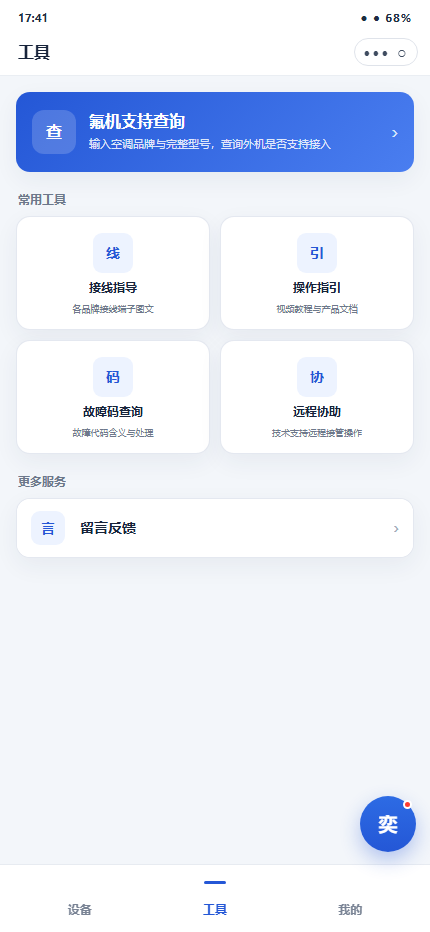
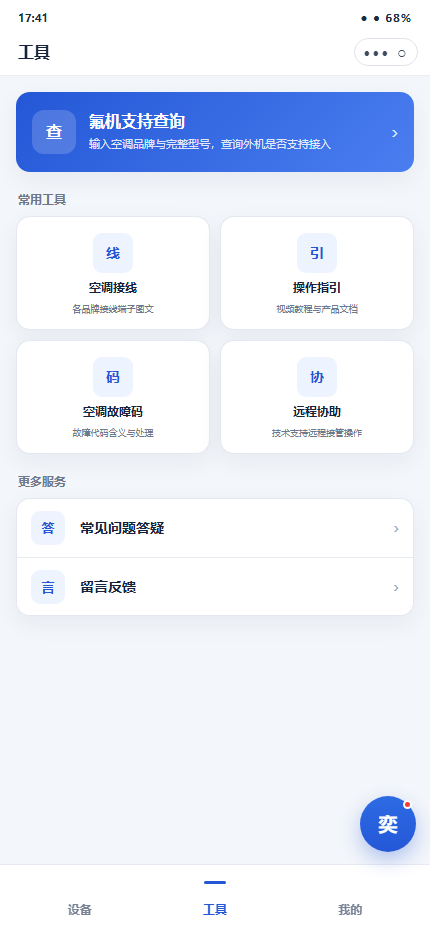
工具中心改版：接线指导更名空调接线；故障码查询更名空调故障码（品牌必选校验、结果卡查询后显示、移除关联网关侧表现与相关文章）；更多服务新增常见问题答疑专栏（折叠问答6条预置+去留言反馈闭环）；功能说明书/测试/截图同步

diff --git a/tests/redesign-requirements.test.js b/tests/redesign-requirements.test.js
@@ -83,16 +83,17 @@ assert.equal(data.toolHero.title, '氟机支持查询', 'fluorine support query 
 assert(data.toolHero.href === 'tool-fluoro-input.html', 'fluorine support query must enter the query flow');
 assert.deepEqual(
   data.toolCards.map((item) => item.title),
-  ['接线指导', '操作指引', '故障码查询', '远程协助'],
+  ['空调接线', '操作指引', '空调故障码', '远程协助'],
   'frequent tools must render as cards'
 );
 assert(data.toolCards.find((item) => item.title === '远程协助').href === 'tool-remote.html', 'remote assist tool must enter the remote assist flow');
 assert(data.toolCards.find((item) => item.title === '操作指引').href === 'tool-guide.html', 'operation guide tool must enter the guide hub');
 assert.deepEqual(
   data.toolMenu.map((item) => item.title),
-  ['留言反馈'],
-  'services menu must keep only feedback'
+  ['常见问题答疑', '留言反馈'],
+  'services menu must lead with the faq column then feedback'
 );
+assert(data.faqList.length >= 5 && data.faqList.every((f) => f.q && f.a), 'faq column must provide maintained Q&A entries');
 for (const removed of ['产品方案', '飞奕公众号', '使用说明']) {
   assert(!JSON.stringify(data.toolMenu).includes(removed), `services menu must remove ${removed}`);
 }
@@ -272,7 +273,8 @@ const publicPages = [
   'pages/product-catalog.html', 'pages/tool-wiring.html', 'pages/tool-guide.html',
   'pages/tool-videos.html', 'pages/tool-errcode.html', 'pages/tool-fluoro-input.html', 'pages/tool-fluoro-result.html',
   'pages/tool-fluoro-submit.html', 'pages/feedback.html',
-  'pages/tool-remote.html', 'pages/tool-remote-assisted.html', 'pages/tool-remote-assist.html'
+  'pages/tool-remote.html', 'pages/tool-remote-assisted.html', 'pages/tool-remote-assist.html',
+  'pages/platform-videos.html', 'pages/tool-faq.html'
 ];
 for (const file of publicPages) {
   const html = read(file);
@@ -285,7 +287,7 @@ const fluoroInput = read('pages/tool-fluoro-input.html');
 const fluoroResult = read('pages/tool-fluoro-result.html');
 const fluoroSubmit = read('pages/tool-fluoro-submit.html');
 assert(fluoroInput.includes('氟机支持查询') && fluoroInput.includes('空调品牌') && fluoroInput.includes('外机完整型号'), 'fluoro query must take brand and full model');
-for (const text of ['支持接入', '接线指导', '主从判断', '安装调试视频']) {
+for (const text of ['支持接入', '空调接线', '主从判断', '安装调试视频']) {
   assert(fluoroResult.includes(text), `supported result must include ${text}`);
 }
 for (const text of ['暂未收录', '留言反馈', '铭牌照片', '电路图']) {
@@ -315,6 +317,19 @@ const platformVideos = read('pages/platform-videos.html');
 for (const text of ['平台操作专栏', 'platformGuideCats', '视频播放', 'tool-guide.html']) {
   assert(platformVideos.includes(text), `platform videos page must include ${text}`);
 }
+const wiringPage = read('pages/tool-wiring.html');
+assert(wiringPage.includes('空调接线') && !wiringPage.includes('nav-title">接线指导'), 'wiring page must be renamed to 空调接线');
+const errcodePage = read('pages/tool-errcode.html');
+for (const text of ['空调故障码', '请先选择空调品牌', 'ec-result']) {
+  assert(errcodePage.includes(text), `errcode page must include ${text}`);
+}
+for (const removed of ['关联网关侧表现', '相关文章', 'chip active']) {
+  assert(!errcodePage.includes(removed), `errcode page must remove ${removed}`);
+}
+const faqPage = read('pages/tool-faq.html');
+for (const text of ['常见问题答疑', 'faqList', '去留言反馈', 'feedback.html']) {
+  assert(faqPage.includes(text), `faq page must include ${text}`);
+}
 const productIntro = read('pages/product-intro.html');
 for (const text of ['介绍视频', '手册与文档', 'guideSeries']) {
   assert(productIntro.includes(text), `series hub must include ${text}`);
@@ -329,7 +344,7 @@ for (const text of ['奕', 'pointermove', 'docked', 'placeDefault']) {
 }
 assert(!aiAssistant.includes("innerHTML = 'AI"), 'assistant ball must not keep the old AI glyph');
 for (const page of ['tab-tools', 'tool-fluoro-input', 'tool-fluoro-result', 'tool-fluoro-submit', 'tool-wiring', 'tool-videos', 'tool-errcode', 'feedback',
-  'tool-remote', 'tool-remote-assisted', 'tool-remote-assist', 'tool-guide',
+  'tool-remote', 'tool-remote-assisted', 'tool-remote-assist', 'tool-guide', 'tool-faq', 'platform-videos',
   'tab-device-bt', 'tab-mine', 'mine-devices', 'product-intro',
   'device-quick', 'device-detail', 'device-more', 'device-setting', 'device-a01-ac', 'device-fd01g', 'device-fd01g-more',
   'device-e50', 'device-e50-detail', 'device-e50-ai', 'device-e50-ac', 'device-e50-report', 'device-e50-upgrade',

diff --git a/assets/app/product-data.js b/assets/app/product-data.js
@@ -199,13 +199,22 @@
     ],
     toolHero: { title: '氟机支持查询', icon: '查', desc: '输入空调品牌与完整型号，查询外机是否支持接入', href: 'tool-fluoro-input.html' },
     toolCards: [
-      { title: '接线指导', icon: '线', desc: '各品牌接线端子图文', href: 'tool-wiring.html' },
+      { title: '空调接线', icon: '线', desc: '各品牌接线端子图文', href: 'tool-wiring.html' },
       { title: '操作指引', icon: '引', desc: '视频教程与产品文档', href: 'tool-guide.html' },
-      { title: '故障码查询', icon: '码', desc: '故障代码含义与处理', href: 'tool-errcode.html' },
+      { title: '空调故障码', icon: '码', desc: '故障代码含义与处理', href: 'tool-errcode.html' },
       { title: '远程协助', icon: '协', desc: '技术支持远程接管操作', href: 'tool-remote.html' }
     ],
     toolMenu: [
+      { title: '常见问题答疑', icon: '答', href: 'tool-faq.html' },
       { title: '留言反馈', icon: '言', href: 'feedback.html' }
+    ],
+    faqList: [
+      { q: '蓝牙搜索不到网关设备怎么办？', a: '确认网关已上电并处于配网状态（指示灯快闪）；手机蓝牙已开启并已授权小程序使用蓝牙；靠近设备 1 米内重新搜索。仍搜索不到可将网关断电重启后再试。' },
+      { q: '网关配网失败怎么排查？', a: '确认 Wi-Fi 密码输入正确（注意区分大小写）；路由器需为 2.4GHz 频段（暂不支持 5GHz）；关闭路由器 AP 隔离功能；信号较弱时先将网关移至路由器附近完成配网，再安装回原位。' },
+      { q: '平台显示网关离线，如何处理？', a: '先确认网关供电正常、指示灯状态正常；检查现场网络是否断网或更换过路由器；4G 版本确认流量卡未欠费、当地信号正常。网络恢复后网关会自动重连上线，无需重新配置。' },
+      { q: '空调无法控制或状态不更新？', a: '确认网关与空调总线接线牢固、极性正确；在调试页重新执行「空调搜索」识别内机；确认所选空调品牌协议与现场实际一致。仍异常时可通过「远程协助」联系技术支持在线排查。' },
+      { q: '远程协助功能怎么用？', a: '在工具页进入「远程协助」，开启协助码并告知飞奕技术支持；对方接入后可实时查看并代为操作你的小程序界面；协助结束后画面同步终止，对方无法再访问你的手机。' },
+      { q: '集控计费平台账号如何开通？', a: '项目交付后由飞奕技术支持统一开通主账号；如需新增子账号，可在平台「系统管理-子账户」中创建并分配项目与功能权限，或联系技术支持协助开通。' }
     ],
     platformGuideCats: [
       {

diff --git a/pages/tool-errcode.html b/pages/tool-errcode.html
@@ -3,7 +3,7 @@
 <head>
   <meta charset="UTF-8">
   <meta name="viewport" content="width=device-width, initial-scale=1.0">
-  <title>故障码查询</title>
+  <title>空调故障码</title>
   <link rel="stylesheet" href="../_base.css">
   <style>
     .search-bar { margin: 4px 0 12px; }
@@ -29,7 +29,7 @@
   </div>
   <div class="wx-navbar">
     <a class="nav-back" href="tab-tools.html">‹</a>
-    <div class="nav-title">故障码查询</div>
+    <div class="nav-title">空调故障码</div>
     <div class="nav-capsule">
       <span class="cap-dot"></span><span class="cap-dot"></span><span class="cap-dot"></span>
       <span class="cap-sep"></span><span class="cap-circle"></span>
@@ -43,13 +43,13 @@
       <input id="ec-input" placeholder="输入故障码，如 U4">
     </div>
     <div class="brand-chips chip-group" data-select="single">
-      <span class="chip active">大金</span>
+      <span class="chip">大金</span>
       <span class="chip">格力</span>
       <span class="chip">美的</span>
       <span class="chip">日立</span>
     </div>
 
-    <div class="card">
+    <div class="card" id="ec-result" style="display:none">
       <div class="ec-head">
         <div class="ec-code">U4</div>
         <div class="ec-name">内外机通讯异常</div>
@@ -63,14 +63,6 @@
           <span class="kv-label">现场排查步骤</span>
           <span class="kv-value subvalue">1. 检查 F1/F2 端子紧固与极性 → 2. 确认外机上电 → 3. 断电 5 分钟后重新上电复位 → 4. 万用表测通讯线电压（正常约 DC 15-25V 波动）</span>
         </div>
-        <div class="kv-item">
-          <span class="kv-label">关联网关侧表现</span>
-          <span class="kv-value">通道内机全部离线</span>
-        </div>
-        <a class="kv-item" href="#" onclick="showToast('正在打开文章');return false;">
-          <span class="kv-label">相关文章</span>
-          <span class="kv-value kv-arrow text-brand">大金 U4 故障处理实录</span>
-        </a>
       </div>
     </div>
 
@@ -83,7 +75,12 @@
   <script src="../assets/app/ai-assistant.js"></script>
   <script>
     document.getElementById('ec-input').addEventListener('keydown', function (e) {
-      if (e.key === 'Enter') showToast(this.value.trim() ? '已查询：' + this.value.trim() : '请输入故障码');
+      if (e.key !== 'Enter') return;
+      var brand = document.querySelector('.brand-chips .chip.active');
+      if (!brand) { showToast('请先选择空调品牌'); return; }
+      if (!this.value.trim()) { showToast('请输入故障码'); return; }
+      document.getElementById('ec-result').style.display = '';
+      showToast('已查询：' + brand.textContent.trim() + ' ' + this.value.trim());
     });
   </script>
 </body>

diff --git a/pages/tool-faq.html b/pages/tool-faq.html
@@ -1,0 +1,44 @@
+<!doctype html>
+<html lang="zh-CN">
+<head><meta charset="utf-8"><meta name="viewport" content="width=device-width,initial-scale=1,viewport-fit=cover"><title>常见问题答疑</title><link rel="stylesheet" href="../assets/app/app.css">
+<style>
+  .faq-item { border-top: 1px solid var(--line); }
+  .faq-item:first-child { border-top: 0; }
+  .faq-q { display: flex; align-items: center; gap: 10px; width: 100%; padding: 14px; border: 0; background: none; font: inherit; text-align: left; cursor: pointer; }
+  .faq-badge { flex: 0 0 auto; width: 22px; height: 22px; display: grid; place-items: center; border-radius: 6px; background: var(--blue-soft); color: var(--blue); font-size: 11px; font-weight: 800; }
+  .faq-title { flex: 1; min-width: 0; font-size: 13px; font-weight: 700; line-height: 1.5; }
+  .faq-arrow { color: var(--faint); font-size: 15px; transition: transform .2s; }
+  .faq-item.open .faq-arrow { transform: rotate(90deg); }
+  .faq-a { display: none; padding: 0 14px 14px 46px; color: var(--muted); font-size: 12px; line-height: 1.8; }
+  .faq-item.open .faq-a { display: block; }
+  .faq-more { display: flex; align-items: center; justify-content: center; gap: 6px; margin-top: 14px; font-size: 12px; color: var(--muted); }
+  .faq-more a { color: var(--blue); font-weight: 650; }
+</style>
+</head>
+<body>
+  <main class="app-shell">
+    <div class="statusbar"><span>17:41</span><span class="status-icons">● ● 68%</span></div>
+    <header class="topbar"><a class="back" id="nav-back" href="tab-tools.html">‹</a><div class="topbar-title">常见问题答疑</div><div class="capsule">··· ○</div></header>
+    <div class="page no-tab">
+      <section class="card list-card" id="faq-list"></section>
+      <div class="faq-more">未解决你的问题？<a href="feedback.html">去留言反馈 ›</a></div>
+    </div>
+  </main>
+  <script src="../assets/app/product-data.js"></script>
+  <script>
+    var list = document.getElementById('faq-list');
+    list.innerHTML = GWDBG_DATA.faqList.map(function (f) {
+      return '<div class="faq-item"><button class="faq-q" type="button">' +
+        '<span class="faq-badge">问</span><span class="faq-title">' + f.q + '</span><span class="faq-arrow">›</span></button>' +
+        '<div class="faq-a">' + f.a + '</div></div>';
+    }).join('');
+    list.addEventListener('click', function (event) {
+      var btn = event.target.closest('.faq-q');
+      if (btn) btn.parentElement.classList.toggle('open');
+    });
+    document.getElementById('nav-back').addEventListener('click', function (event) {
+      if (window.history.length > 1) { event.preventDefault(); window.history.back(); }
+    });
+  </script>
+  <script src="../assets/app/ai-assistant.js"></script>
+</body></html>

diff --git a/tests/browser-smoke.js b/tests/browser-smoke.js
@@ -244,8 +244,14 @@ async function assertNoHorizontalOverflow(page, route) {
     assert.equal(await page.locator('#tool-hero').count(), 1, 'tools must lead with the fluoro support query hero');
     assert.match(await page.locator('#tool-hero').textContent(), /氟机支持查询/);
     assert.equal(await page.locator('#tool-cards .tool-mini').count(), 4, 'frequent tools must render as cards');
-    assert.equal(await page.locator('#tool-menu .list-row').count(), 1, 'services menu must keep only feedback');
+    assert.equal(await page.locator('#tool-menu .list-row').count(), 2, 'services menu must lead with the faq column then feedback');
     assert.equal(await page.getByText('专业版切换').count(), 0, 'tools must remove the pro-version switch');
+    await page.locator('#tool-menu .list-row', { hasText: '常见问题答疑' }).click();
+    await page.waitForLoadState('networkidle');
+    assert.ok((await page.locator('#faq-list .faq-item').count()) >= 5, 'faq page must render the maintained Q&A entries');
+    await page.locator('.faq-q').first().click();
+    assert.equal(await page.locator('.faq-item.open').count(), 1, 'faq entry must expand on tap');
+    await open(page, baseUrl, 'pages/tab-tools.html');
     assert.equal(await page.locator('.aa-ball').count(), 1, 'tools page must show the ai assistant ball');
     await page.locator('.aa-ball').click();
     await page.waitForTimeout(400);

diff --git a/pages/tool-fluoro-result.html b/pages/tool-fluoro-result.html
@@ -71,7 +71,7 @@
       <div class="card-title"><span class="card-title-main">调试要点</span></div>
       <div class="kv-list">
         <div class="kv-item"><span class="kv-label">接线位置</span><span class="kv-value">外机 F1/F2 端子</span></div>
-        <a class="kv-item" href="tool-wiring.html"><span class="kv-label">接线指导</span><span class="kv-value kv-arrow text-brand" id="wiring-link">大金 VRV 接线图文</span></a>
+        <a class="kv-item" href="tool-wiring.html"><span class="kv-label">空调接线</span><span class="kv-value kv-arrow text-brand" id="wiring-link">大金 VRV 接线图文</span></a>
         <a class="kv-item" href="#" onclick="showToast('主从判断方法');return false;"><span class="kv-label">主从判断</span><span class="kv-value kv-arrow text-brand">查看判断方法</span></a>
         <a class="kv-item" href="tool-videos.html"><span class="kv-label">安装调试视频</span><span class="kv-value kv-arrow text-brand">观看演示</span></a>
         <div class="kv-item"><span class="kv-label">波特率</span><span class="kv-value">9600（默认）</span></div>

diff --git a/tests/visual-check-remote.js b/tests/visual-check-remote.js
@@ -81,6 +81,22 @@ function startServer() {
   await page.goto(`${baseUrl}/pages/platform-videos.html?cat=jf`, { waitUntil: 'networkidle' });
   await shot('21-platform-videos-jf');
 
+  await page.goto(`${baseUrl}/pages/tool-faq.html`, { waitUntil: 'networkidle' });
+  await page.locator('.faq-q').nth(0).click();
+  await page.locator('.faq-q').nth(2).click();
+  await shot('22-tool-faq');
+
+  await page.goto(`${baseUrl}/pages/tool-errcode.html`, { waitUntil: 'networkidle' });
+  await shot('23-tool-errcode');
+  await page.locator('.brand-chips .chip').first().click();
+  await page.locator('#ec-input').fill('U4');
+  await page.locator('#ec-input').press('Enter');
+  await page.waitForTimeout(300);
+  await shot('24-tool-errcode-result');
+
+  await page.goto(`${baseUrl}/pages/tool-wiring.html`, { waitUntil: 'networkidle' });
+  await shot('25-tool-wiring');
+
   await page.goto(`${baseUrl}/pages/product-intro.html?series=a01`, { waitUntil: 'networkidle' });
   await shot('17-series-hub');
   await page.locator('[data-tab="docs"]').click();

diff --git a/pages/tool-wiring.html b/pages/tool-wiring.html
@@ -3,7 +3,7 @@
 <head>
   <meta charset="UTF-8">
   <meta name="viewport" content="width=device-width, initial-scale=1.0">
-  <title>接线指导 · 文章聚合</title>
+  <title>空调接线 · 文章聚合</title>
   <link rel="stylesheet" href="../_base.css">
   <style>
     .seg-filter {
@@ -60,7 +60,7 @@
   </div>
   <div class="wx-navbar">
     <a class="nav-back" href="tab-tools.html">‹</a>
-    <div class="nav-title">接线指导</div>
+    <div class="nav-title">空调接线</div>
     <div class="nav-capsule">
       <span class="cap-dot"></span><span class="cap-dot"></span><span class="cap-dot"></span>
       <span class="cap-sep"></span><span class="cap-circle"></span>

diff --git a/interactions.js b/interactions.js
@@ -380,9 +380,9 @@
               <a href="tool-fluoro-input.html">氟机选型</a>
               <a href="tool-fluoro-result.html">选型结果</a>
               <a href="tool-fluoro-submit.html">未收录提交</a>
-              <a href="tool-wiring.html">接线指导</a>
+              <a href="tool-wiring.html">空调接线</a>
               <a href="tool-videos.html">安装视频</a>
-              <a href="tool-errcode.html">故障码</a>
+              <a href="tool-errcode.html">空调故障码</a>
             </div>
           </div>
         </div>

diff --git a/docs/飞奕网关调试小程序功能说明书.md b/docs/飞奕网关调试小程序功能说明书.md
@@ -43,8 +43,8 @@ flowchart TD
     B --> B1[蓝牙搜索与连接<br/>10 型号产品卡 → 调试工作台]
     B --> B2[顶部搜索周边设备提示<br/>底部产品方案入口]
     C --> C1[氟机支持查询]
-    C --> C2[接线指导 / 操作指引<br/>故障码查询 / 远程协助]
-    C --> C3[更多服务：留言反馈]
+    C --> C2[空调接线 / 操作指引<br/>空调故障码 / 远程协助]
+    C --> C3[更多服务：常见问题答疑 / 留言反馈]
     D --> D1[账号信息 / 我的设备<br/>退出登录 / 版本号]
 ```
 
@@ -172,12 +172,12 @@ flowchart TD
 
 | 工具 | 说明 |
 |---|---|
-| 氟机支持查询（hero 大卡） | 输入空调品牌 + 外机完整型号 → 已收录：支持接入（接线指导、主从判断、安装调试视频入口）；未收录：引导留言反馈（铭牌照片、电路图说明） |
-| 接线指导 | 按品牌筛选的接线图文文章聚合 |
+| 氟机支持查询（hero 大卡） | 输入空调品牌 + 外机完整型号 → 已收录：支持接入（空调接线、主从判断、安装调试视频入口）；未收录：引导留言反馈（铭牌照片、电路图说明） |
+| 空调接线 | 按品牌筛选的接线图文文章聚合 |
 | 操作指引 | 操作指引总页（见 6.1），汇聚硬件产品专栏与平台操作专栏 |
-| 故障码查询 | 故障代码含义与处理方法 |
+| 空调故障码 | 选择空调品牌后查询故障代码含义与处理方法（常见原因 + 现场排查步骤） |
 | 远程协助 | 见 6.3 |
-| 更多服务 | 留言反馈 |
+| 更多服务 | 常见问题答疑（技术支持持续维护补充的问答专栏）、留言反馈 |
 
 ### 6.1 操作指引总页
 
